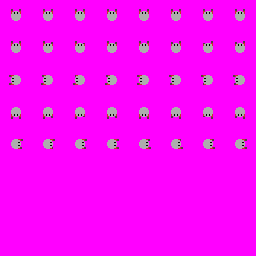
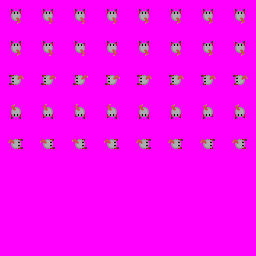
improved images

diff --git a/src/com/HamletGame/main/Game.java b/src/com/HamletGame/main/Game.java
@@ -32,7 +32,21 @@ public class Game extends Canvas implements Runnable{
 		handler = new Handler();
 		// build room
 		for(int x = 0; x < 8; x++) {
-			handler.addObject(new Tile(x*32, 0, 0, "/images/Wall.png", ID.GenericTile));
+			// top walls
+			handler.addObject(new Tile(x*32+64, 0, 0, "/images/Wall.png", ID.GenericTile));
+			handler.addObject(new Tile(x*32+64, 32, 0, "/images/WallBridge.png", ID.GenericTile));
+			// left walls
+			handler.addObject(new Tile(0, x*32+64, 1, "/images/Wall.png", ID.GenericTile));
+			handler.addObject(new Tile(32, x*32+64, 1, "/images/WallBridge.png", ID.GenericTile));
+			// bottom walls
+			handler.addObject(new Tile(x*32+64, 32*11, 2, "/images/Wall.png", ID.GenericTile));
+			handler.addObject(new Tile(x*32+64, 32*10, 2, "/images/WallBridge.png", ID.GenericTile));
+			// right walls
+			handler.addObject(new Tile(32*11, x*32+64, 3, "/images/Wall.png", ID.GenericTile));
+			handler.addObject(new Tile(32*10, x*32+64, 3, "/images/WallBridge.png", ID.GenericTile));
+			for(int y = 0; y < 8; y++) {
+				handler.addObject(new Tile(x*32+64, y*32+64, (x+y)%2, "/images/Floor.png", ID.GenericTile));
+			}
 		}
 		handler.addObject(new Player(Width/2,Height/2,ID.Player));
 
